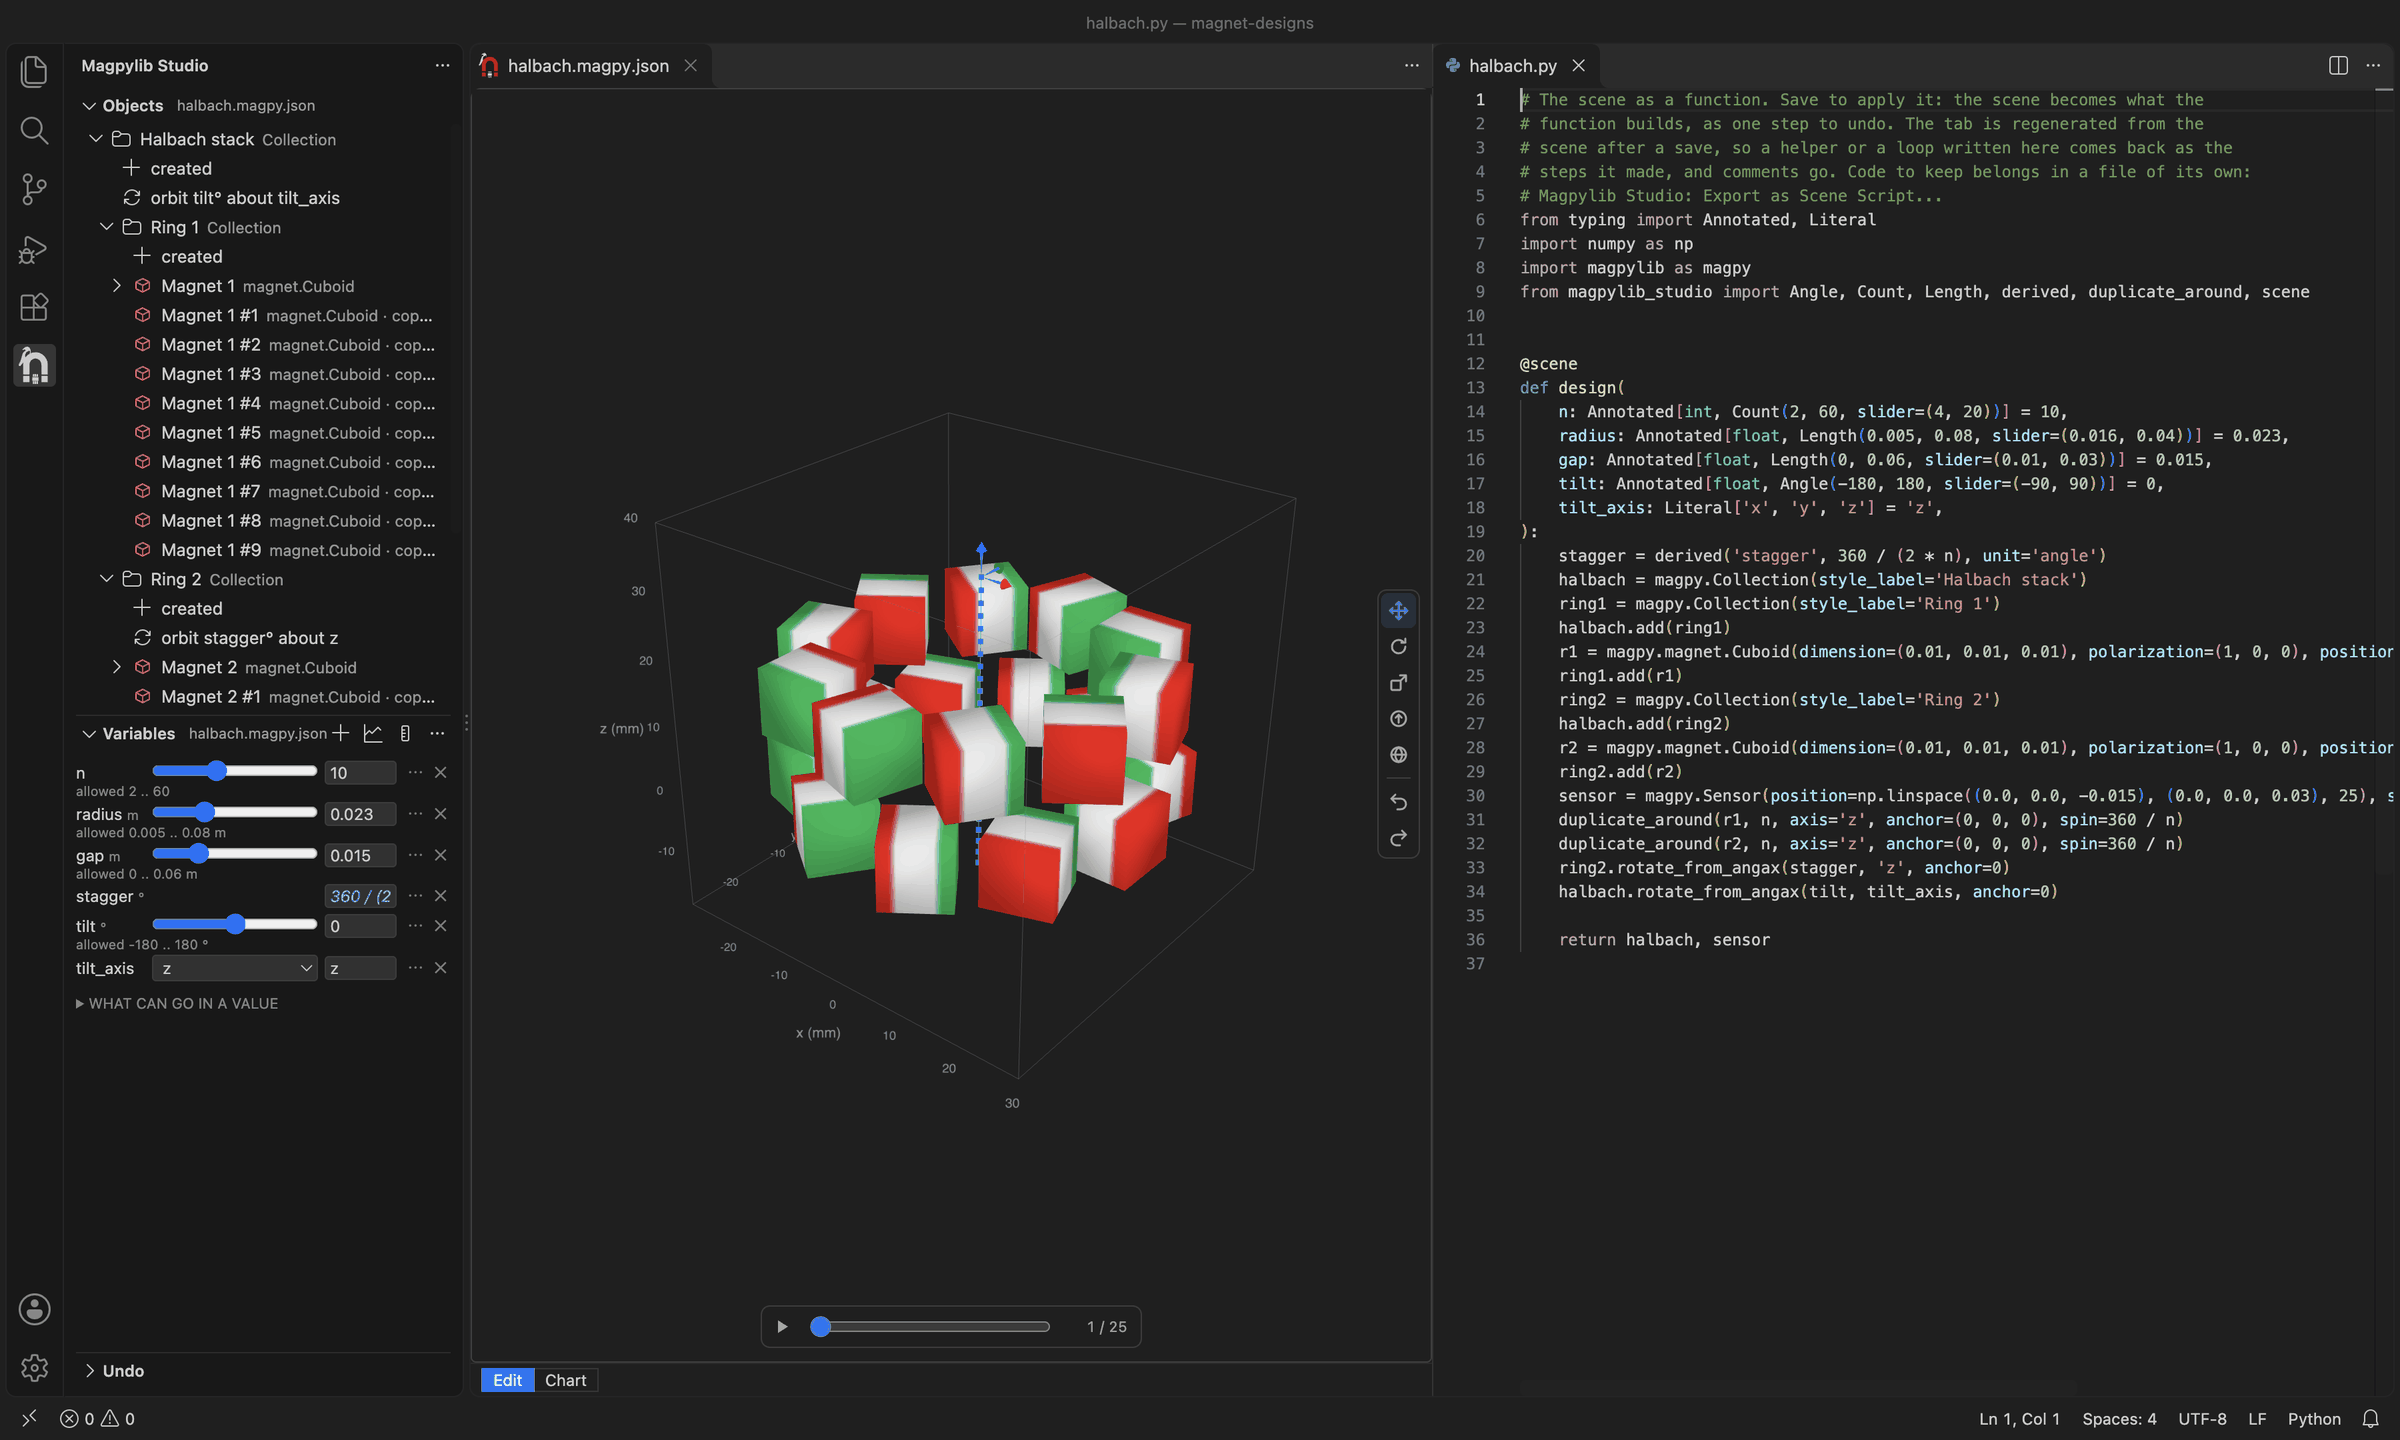
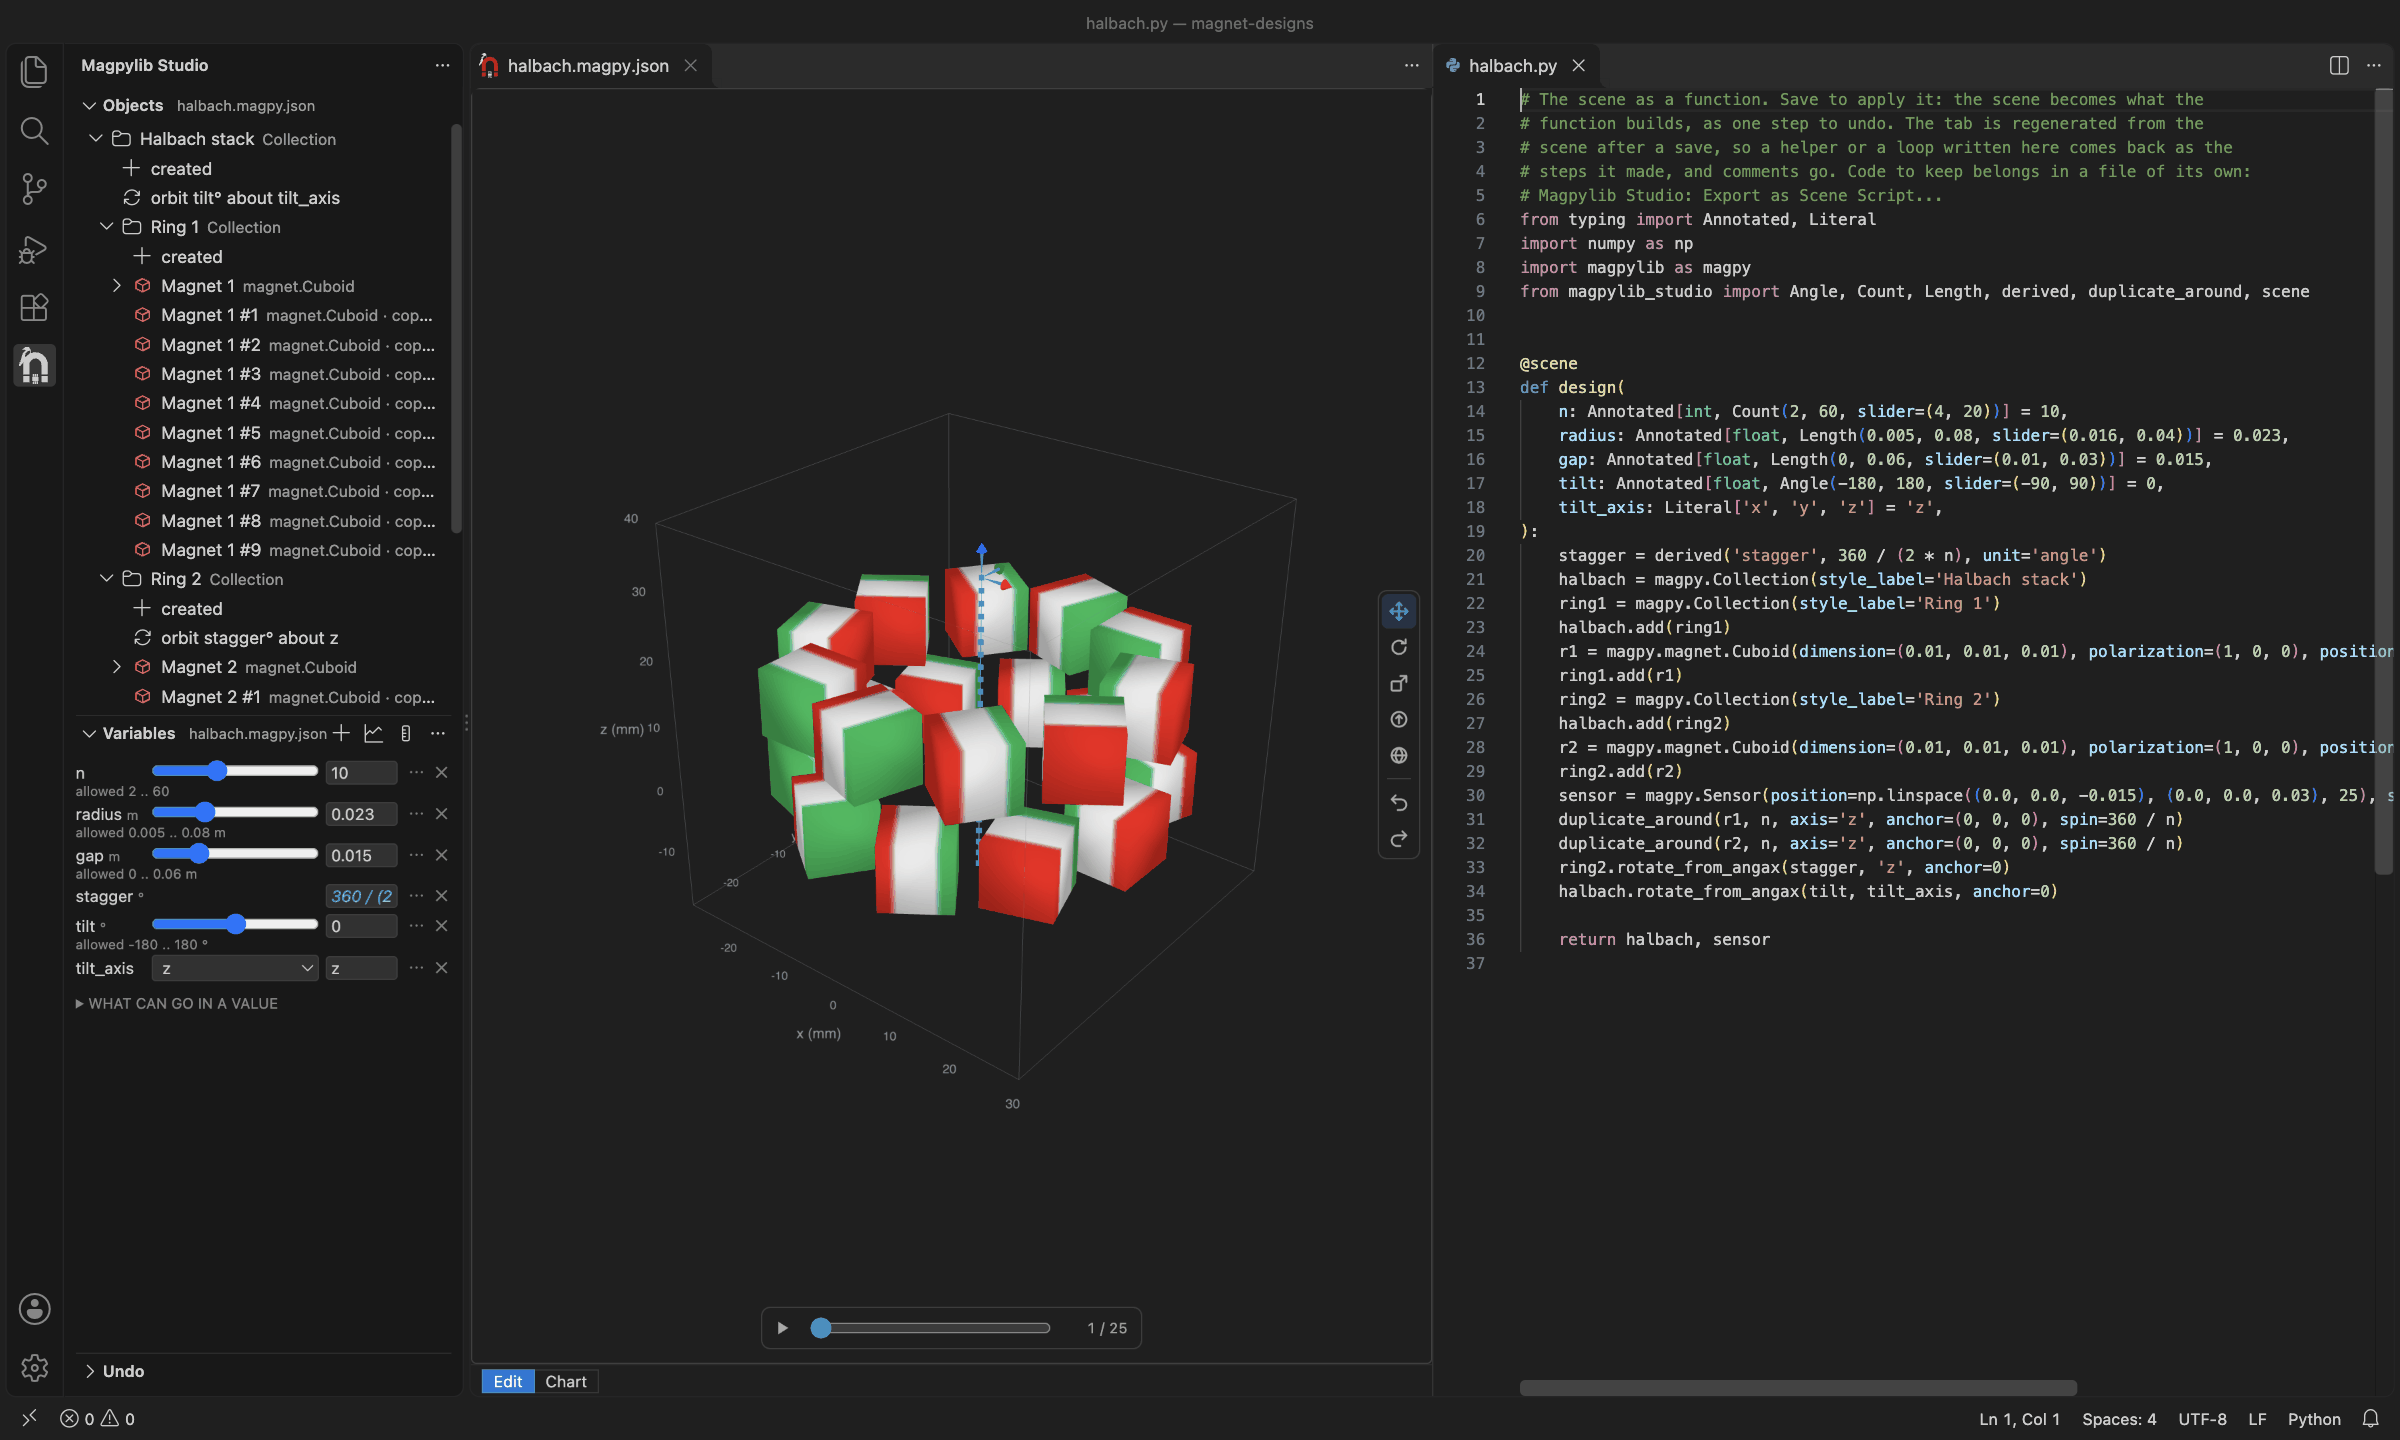
Take the README's screenshot with a script: npm run screenshot
harness/screenshot.mjs installs the studio into a VS Code of its own,
beside a driver that opens the Halbach example and lays the window out,
and has VS Code render its own window through its DevTools protocol, so
it needs no screen-recording permission. 2400 x 1440, reduced to 256
colours when Pillow is in the .venv. docs/halbach.png is its output.

diff --git a/vscode-extension/harness/screenshot-driver/driver.js b/vscode-extension/harness/screenshot-driver/driver.js
@@ -1,0 +1,60 @@
+/**
+ * Sets the window up for `harness/screenshot.mjs`: the Halbach scene in its
+ * tab, the studio's side bar without the Inspector, and the script tab beside
+ * it. Silent unless SHOT_DIR is set, so it is harmless anywhere else. When the
+ * window is ready it writes SHOT_DIR/ready, and the script takes the picture.
+ */
+const fs = require("fs");
+const path = require("path");
+const vscode = require("vscode");
+
+const wait = (ms) => new Promise((resolve) => setTimeout(resolve, ms));
+
+/** The window as the README shows it, one command at a time. */
+const STEPS = [
+  ["workbench.action.closeAuxiliaryBar"],
+  ["workbench.view.extension.magpylib-studio"],
+  // only for this throwaway profile: empty until something is selected, and
+  // a selection draws handles and hints over the scene
+  ["magpylib-studio.inspectorView.removeView"],
+  ["magpylib-studio.viewScript"],
+  ["notifications.clearAll"],
+];
+
+exports.activate = async () => {
+  const dir = process.env.SHOT_DIR;
+  if (!dir) {
+    return;
+  }
+  const say = (entry) =>
+    fs.appendFileSync(
+      path.join(dir, "driver.log"),
+      JSON.stringify(entry) + "\n",
+    );
+  try {
+    // a new profile may open a walkthrough; it would sit in the scene's group
+    await vscode.commands.executeCommand("workbench.action.closeAllEditors");
+    await wait(1500);
+    await vscode.commands.executeCommand(
+      "vscode.openWith",
+      vscode.Uri.file(process.env.SHOT_SCENE),
+      "magpylibStudio.scene",
+    );
+    say({ step: "opened" });
+    // the engine starts, builds the scene and the 3D view draws it
+    await wait(9000);
+    for (const [command, ...args] of STEPS) {
+      try {
+        await vscode.commands.executeCommand(command, ...args);
+        say({ step: "ran", command });
+      } catch (error) {
+        say({ step: "failed", command, error: String(error) });
+      }
+      await wait(2500);
+    }
+    await wait(5000);
+  } catch (error) {
+    say({ error: String((error && error.stack) || error) });
+  }
+  fs.writeFileSync(path.join(dir, "ready"), "");
+};

diff --git a/CONTRIBUTING.md b/CONTRIBUTING.md
@@ -105,6 +105,12 @@ scene tab and eight take in memory. It opens windows on the screen for two or
 three minutes, and leaves its profiles in a `mwc-…` folder in the system temp
 folder.
 
+**The README's screenshot**, after a change that shows in it:
+`npm run screenshot` (macOS, after `npm run compile`) opens the Halbach example
+in a VS Code of its own and writes `docs/halbach.png`, which both READMEs show.
+VS Code renders its own window, so it needs no screen-recording permission; it
+takes about a minute.
+
 **By hand, the scenes**, after a change to the tabs, the side bar or the undo
 keys -- the two the script cannot do:
 
